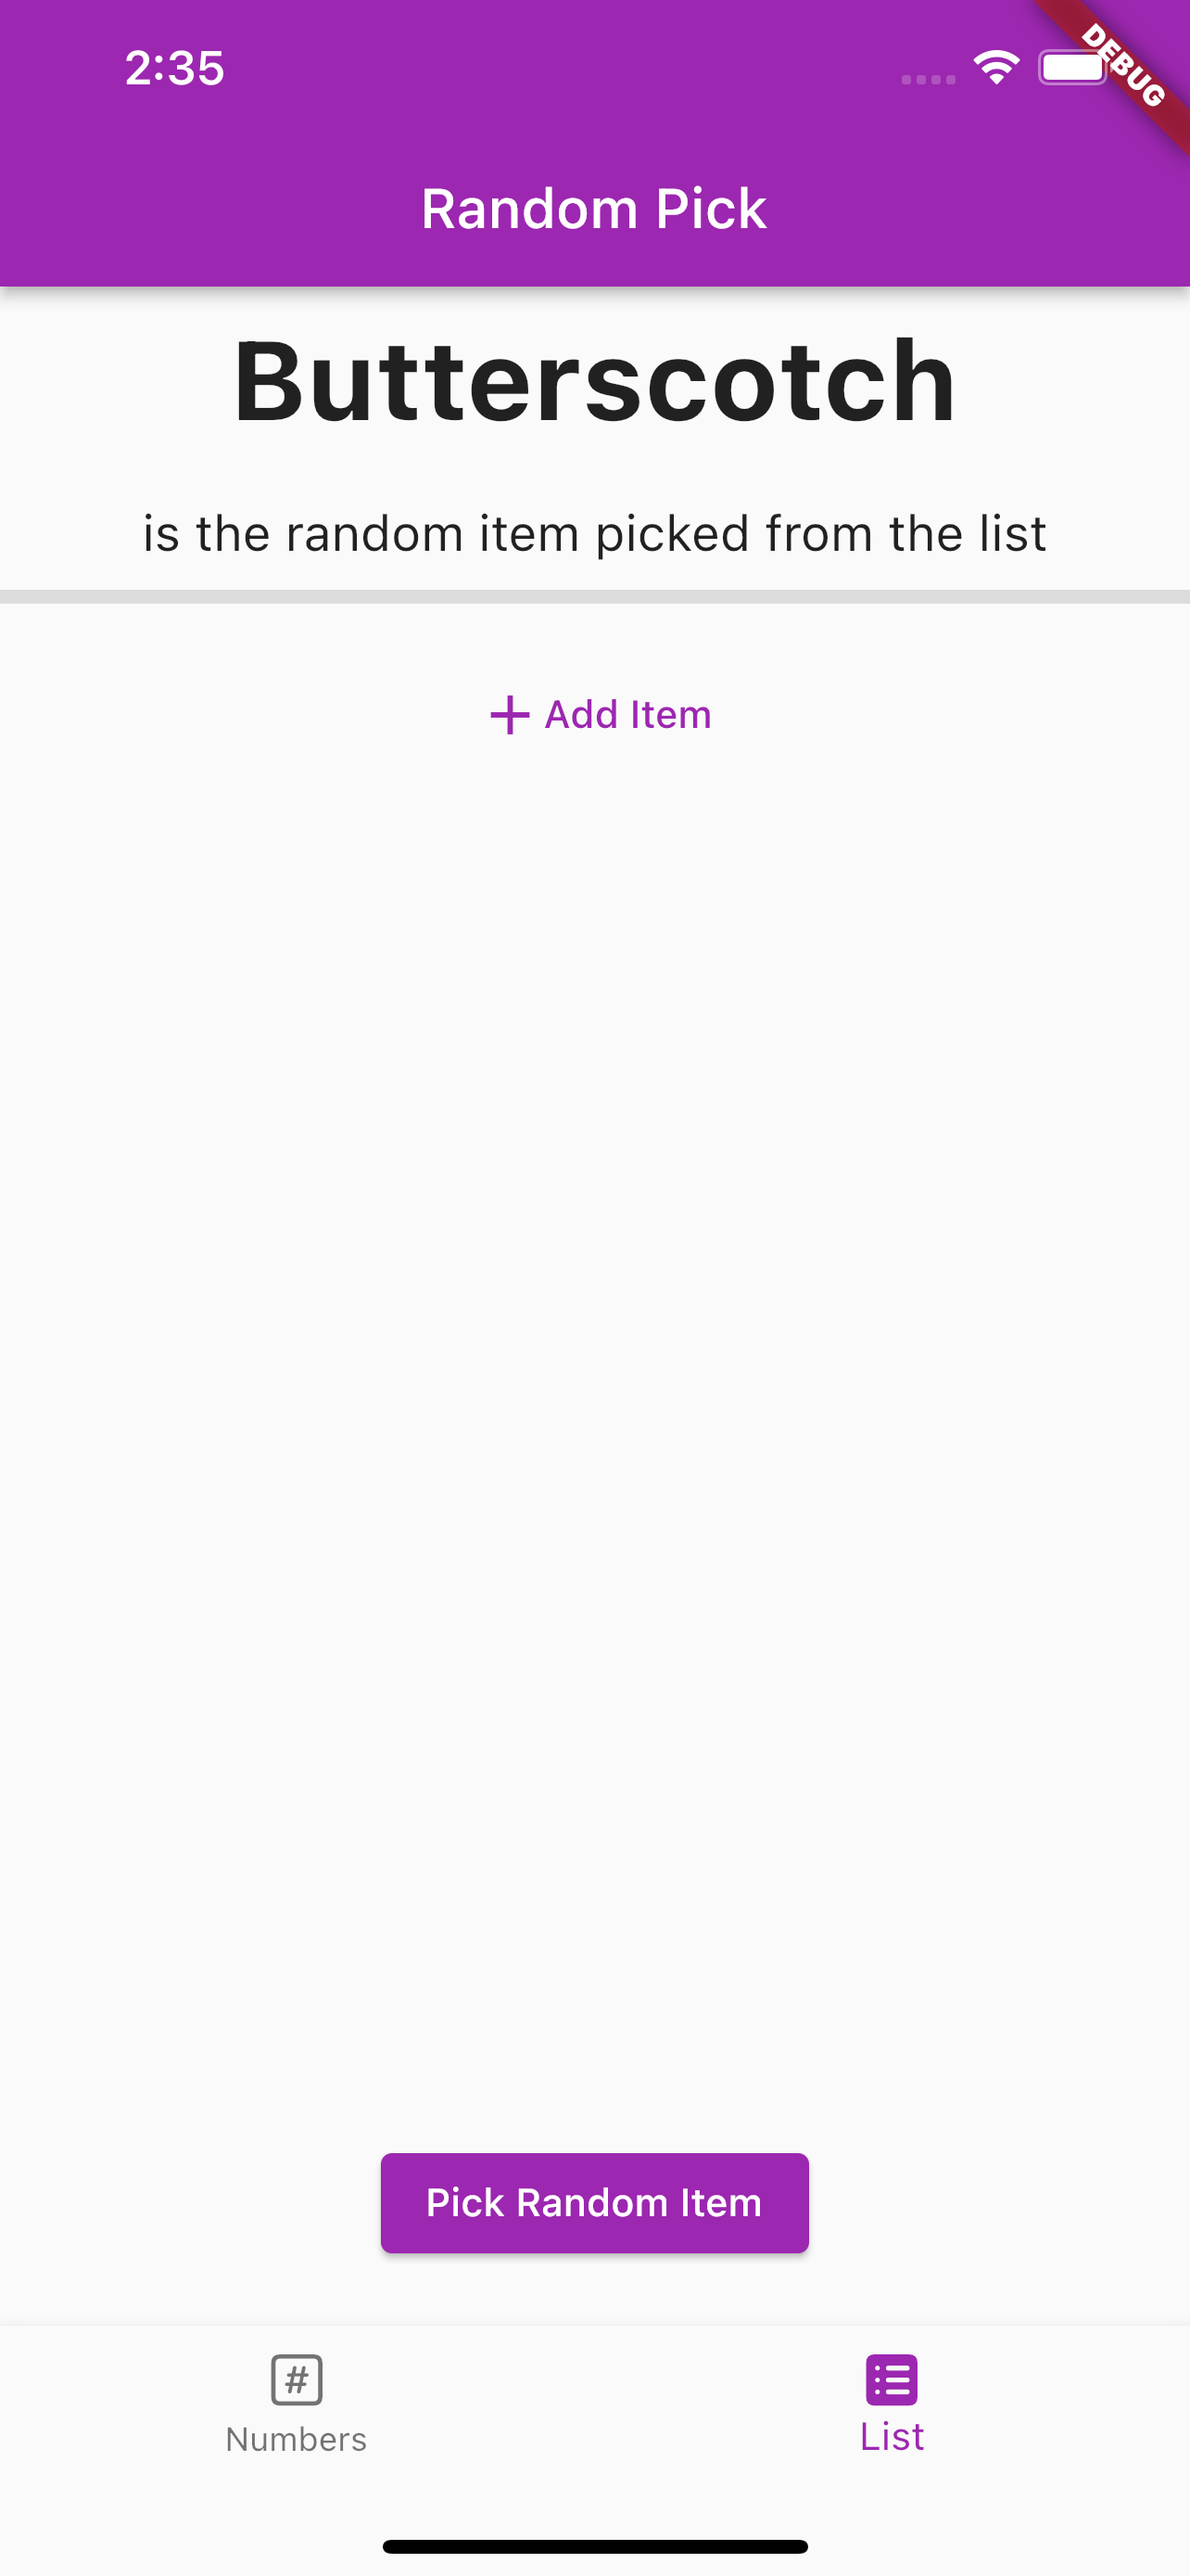
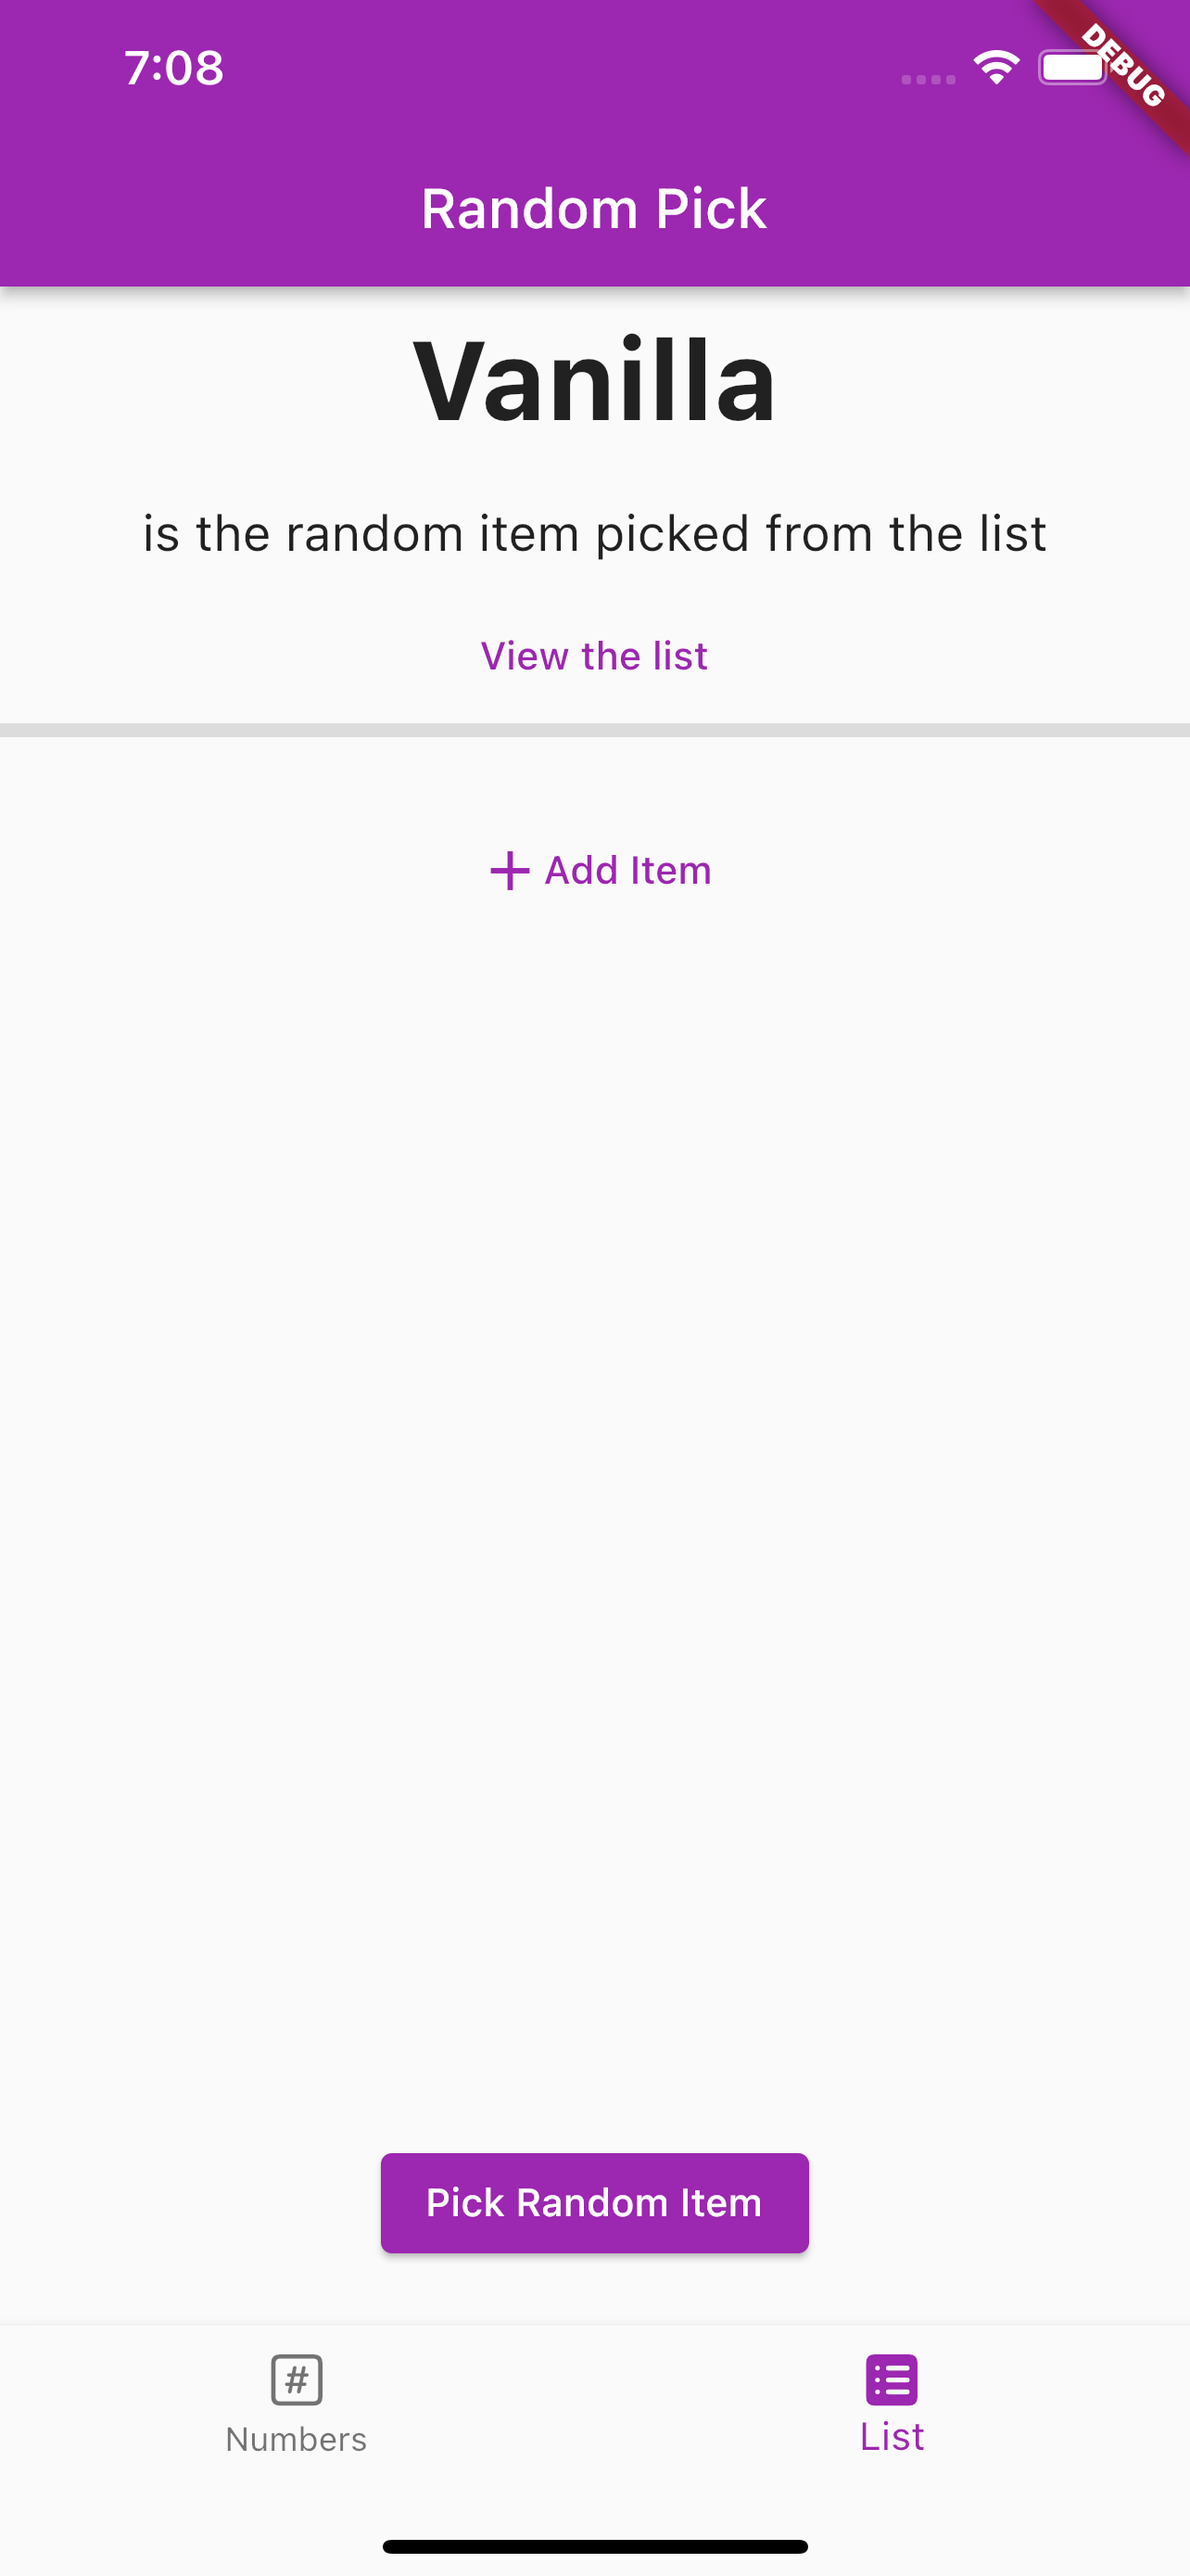
add new page to view item pool
- add navigation service for nested navigation
- inject navigation service using get it
- fix will pop scope for nested navigation
- update readme screenshots

Changed region(s): [[0.0, 0.2167, 1.0, 0.3405], [0.1869, 0.1238, 0.81, 0.1857], [0.1246, 0.0, 0.1869, 0.031]]

diff --git a/lib/features/random/random_list/presentation/pages/random_list_page.dart b/lib/features/random/random_list/presentation/pages/random_list_page.dart
@@ -1,10 +1,12 @@
 import 'package:flutter/material.dart';
 import 'package:flutter_bloc/flutter_bloc.dart';
 
+import '../../../../../core/navigation/random_pick_navigation.dart';
 import '../../../../../injection_container.dart';
 import '../../../presentation/widgets/message_display.dart';
 import '../bloc/random_list_bloc.dart';
 import '../widgets/random_pick_item_controller.dart';
+import 'random_list_picked_page.dart';
 
 /// Widget or Page that displays the random item pick
 class RandomListPage extends StatelessWidget {
@@ -34,9 +36,26 @@ class RandomListPage extends StatelessWidget {
                   } else if (state.status ==
                       ItemsSubscriptionStatus.randomPickLoaded) {
                     // TODO: show the items from which it is picked
-                    return MessageDisplay(
-                      randomPicked: state.randomItemPicked?.itemPicked.text,
-                      message: 'is the random item picked from the list',
+                    return Column(
+                      children: [
+                        MessageDisplay(
+                          randomPicked: state.randomItemPicked?.itemPicked.text,
+                          message: 'is the random item picked from the list',
+                        ),
+                        TextButton(
+                          onPressed: () {
+                            getIt<RandomPickNavigation>()
+                                .navigatorKeys[1]!
+                                .currentState!
+                                .push(MaterialPageRoute(
+                                    builder: (_) => RandomListPickedPage(
+                                          randomItemPicked:
+                                              state.randomItemPicked!,
+                                        )));
+                          },
+                          child: const Text('View the list'),
+                        ),
+                      ],
                     );
                   } else if (state.status == ItemsSubscriptionStatus.error) {
                     return MessageDisplay(

diff --git a/lib/features/random/presentation/pages/random_page.dart b/lib/features/random/presentation/pages/random_page.dart
@@ -1,6 +1,7 @@
 import 'package:flutter/cupertino.dart';
 import 'package:flutter/material.dart';
 import 'package:flutter_bloc/flutter_bloc.dart';
+import 'package:random_pick/core/navigation/random_pick_navigation.dart';
 
 import '../../../../injection_container.dart';
 import '../../random_list/presentation/pages/random_list_page.dart';
@@ -33,14 +34,33 @@ class RandomPageView extends StatelessWidget {
       appBar: AppBar(
         title: const Text('Random Pick'),
       ),
-      body: IndexedStack(
-        index: selectedTab.index,
-        children: const [
-          // first tab to display the random number pick
-          RandomNumberPage(),
-          // second tab to display the random list pick
-          RandomListPage(),
-        ],
+      body: WillPopScope(
+        onWillPop: () async => !await Navigator.maybePop(
+            getIt<RandomPickNavigation>()
+                .navigatorKeys[selectedTab.index]!
+                .currentState!
+                .context),
+        child: IndexedStack(
+          index: selectedTab.index,
+          children: [
+            // first tab to display the random number pick
+            Navigator(
+              // add navigation key for nested navigation
+              key: getIt<RandomPickNavigation>().navigatorKeys[0],
+              onGenerateRoute: (_) => MaterialPageRoute(
+                builder: (_) => const RandomNumberPage(),
+              ),
+            ),
+            // second tab to display the random list pick
+            Navigator(
+              // add navigation key for nested navigation
+              key: getIt<RandomPickNavigation>().navigatorKeys[1],
+              onGenerateRoute: (_) => MaterialPageRoute(
+                builder: (_) => const RandomListPage(),
+              ),
+            ),
+          ],
+        ),
       ),
       bottomNavigationBar: BottomNavigationBar(
         currentIndex: selectedTab.index,

diff --git a/lib/features/random/random_list/presentation/pages/random_list_picked_page.dart b/lib/features/random/random_list/presentation/pages/random_list_picked_page.dart
@@ -1,0 +1,61 @@
+import 'package:flutter/material.dart';
+
+import '../../../presentation/widgets/message_display.dart';
+import '../../domain/entities/item.dart';
+import '../../domain/entities/random_item_picked.dart';
+
+class RandomListPickedPage extends StatelessWidget {
+  const RandomListPickedPage({
+    Key? key,
+    required this.randomItemPicked,
+  }) : super(key: key);
+
+  final RandomItemPicked randomItemPicked;
+
+  Widget _listItem(BuildContext context, Item currentItem) {
+    return CheckboxListTile(
+      value: currentItem.selected,
+      onChanged: (_) {},
+      tileColor: currentItem.id == randomItemPicked.itemPicked.id
+          ? Theme.of(context).secondaryHeaderColor
+          : null,
+      activeColor: Theme.of(context).unselectedWidgetColor,
+      title: Text(currentItem.text),
+      controlAffinity: ListTileControlAffinity.leading,
+    );
+  }
+
+  @override
+  Widget build(BuildContext context) {
+    return Scaffold(
+      appBar: AppBar(
+        title: const Text('Item list'),
+      ),
+      body: Scrollbar(
+        child: CustomScrollView(
+          slivers: [
+            SliverToBoxAdapter(
+              child: MessageDisplay(
+                randomPicked: randomItemPicked.itemPicked.text,
+                message: 'is the random item picked from the list',
+              ),
+            ),
+            SliverPadding(
+              padding: const EdgeInsets.symmetric(
+                horizontal: 20,
+                vertical: 10,
+              ),
+              sliver: SliverList(
+                delegate: SliverChildBuilderDelegate(
+                  (context, index) =>
+                      _listItem(context, randomItemPicked.itemPool[index]),
+                  childCount: randomItemPicked.itemPool.length,
+                ),
+              ),
+            ),
+          ],
+        ),
+      ),
+    );
+  }
+}

diff --git a/lib/injection_container.dart b/lib/injection_container.dart
@@ -1,12 +1,13 @@
 import 'package:get_it/get_it.dart';
-import 'package:random_pick/features/random/random_list/domain/usecases/subscribe_items.dart';
 
+import 'core/navigation/random_pick_navigation.dart';
 import 'core/utils/input_converter.dart';
 import 'features/random/presentation/cubit/random_page_cubit.dart';
 import 'features/random/random_list/data/datasources/random_list_data_source.dart';
 import 'features/random/random_list/data/repositories/random_list_repository_impl.dart';
 import 'features/random/random_list/domain/repositories/random_list_repository.dart';
 import 'features/random/random_list/domain/usecases/get_random_item.dart';
+import 'features/random/random_list/domain/usecases/subscribe_items.dart';
 import 'features/random/random_list/presentation/bloc/random_list_bloc.dart';
 import 'features/random/random_number/data/datasources/random_number_data_source.dart';
 import 'features/random/random_number/data/repositories/random_number_repository_impl.dart';
@@ -67,6 +68,8 @@ void init() {
 
   // ! Core
   getIt.registerLazySingleton(() => InputConverter());
+
+  getIt.registerLazySingleton(() => RandomPickNavigation());
 
   // // ! External
 }

diff --git a/lib/core/navigation/random_pick_navigation.dart b/lib/core/navigation/random_pick_navigation.dart
@@ -1,0 +1,11 @@
+import 'package:flutter/material.dart';
+
+/// Navigation for two bottom tabs
+class RandomPickNavigation {
+  final Map<int, GlobalKey<NavigatorState>> navigatorKeys = {
+    // Random Number
+    0: GlobalKey<NavigatorState>(),
+    // Random List
+    1: GlobalKey<NavigatorState>(),
+  };
+}

diff --git a/README.md b/README.md
@@ -9,7 +9,7 @@ The application is split into two parts:
 
 ## Screenshots
 
-<img src="/screenshots/screenshot_1.png" height="500"> <img src="/screenshots/screenshot_2.png" height="500"> <img src="/screenshots/screenshot_3.png" height="500"> <img src="/screenshots/screenshot_4.png" height="500"> <img src="/screenshots/screenshot_5.png" height="500"> <img src="/screenshots/screenshot_6.png" height="500">
+<img src="/screenshots/screenshot_1.png" height="500"> <img src="/screenshots/screenshot_2.png" height="500"> <img src="/screenshots/screenshot_3.png" height="500"> <img src="/screenshots/screenshot_4.png" height="500"> <img src="/screenshots/screenshot_5.png" height="500"> <img src="/screenshots/screenshot_6.png" height="500"> <img src="/screenshots/screenshot_7.png" height="500">
 
 ## Architecture
 
